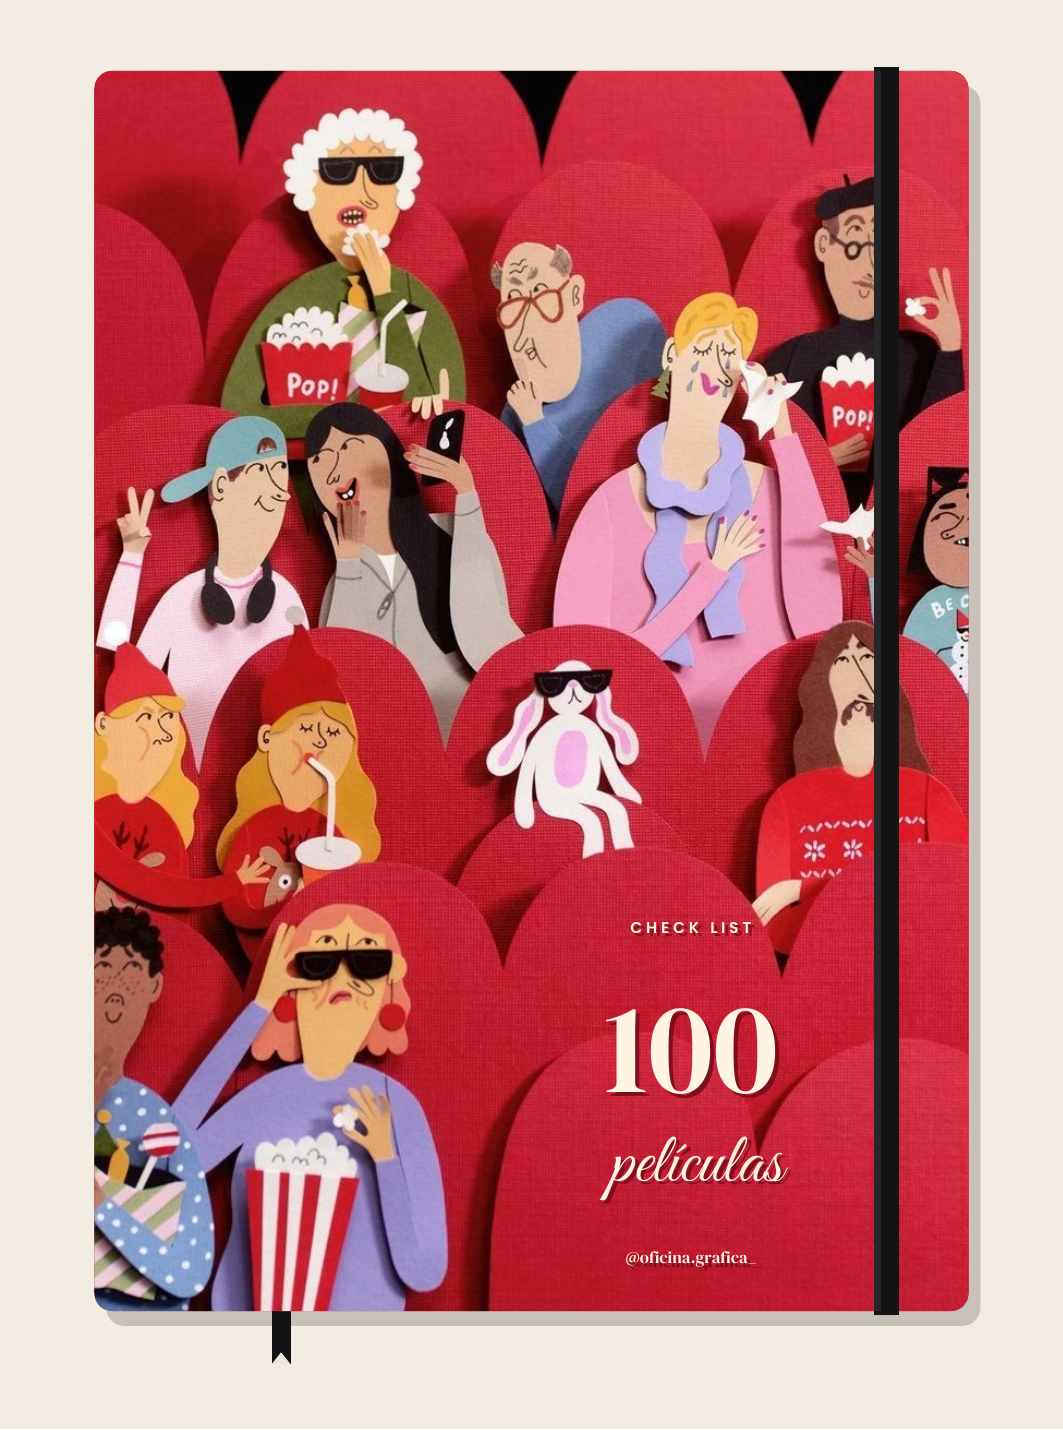
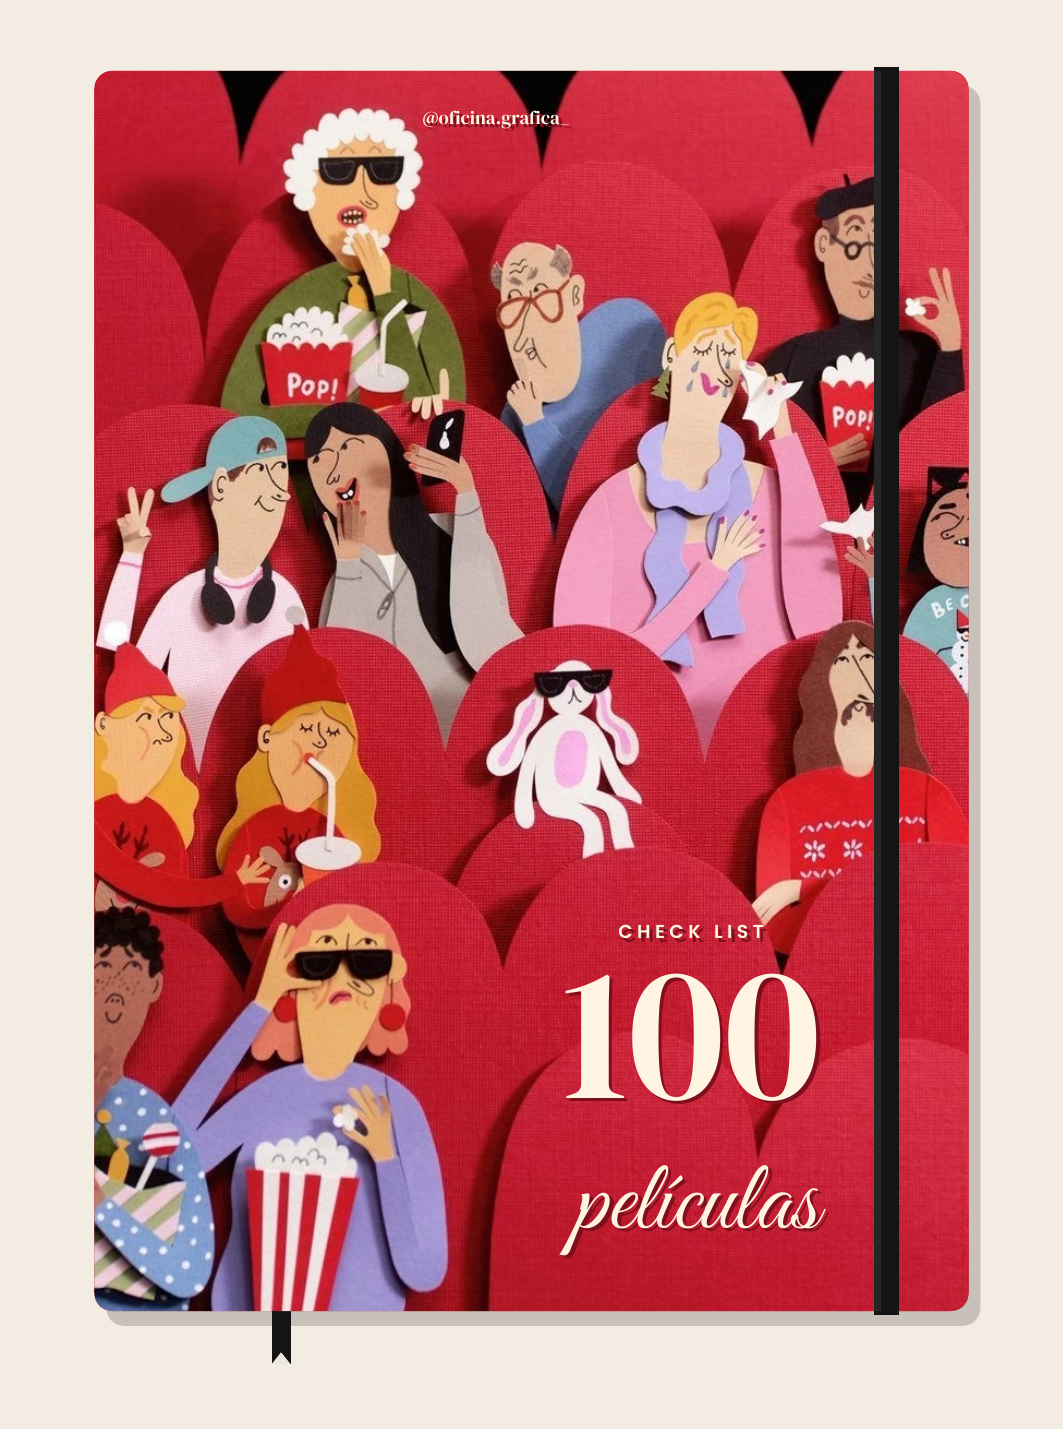
The Watch List: título más grande y firma arriba en la tapa con ilustración
Claude-Session: https://claude.ai/code/session_01FGxw9aPArw9pn3yxwBbtRR

Changed region(s): [[0.5278, 0.6462, 0.7761, 0.8923], [0.4036, 0.0615, 0.5278, 0.0923]]

diff --git a/peliculas/tapa_foto.py b/peliculas/tapa_foto.py
@@ -15,6 +15,7 @@ sys.path.insert(0, os.path.join(os.path.dirname(AQUI), "citas"))
 from portadas_personalizadas import PH, PW, Tapa, cuaderno, elastico  # noqa: E402  (registra fuentes)
 from reportlab.lib.colors import HexColor  # noqa: E402
 from reportlab.lib.units import mm  # noqa: E402
+from reportlab.pdfbase import pdfmetrics  # noqa: E402
 from reportlab.pdfgen import canvas  # noqa: E402
 
 IMAGEN = os.path.join(AQUI, "referencia-sala-papel.jpg")
@@ -41,14 +42,16 @@ def tapa(cv, x, y):
     alto = PH
     ancho = alto * IMG_W / IMG_H
     cv.drawImage(IMAGEN, x - 18 * mm, y, ancho, alto)  # recorte: 18 mm afuera a la izquierda
-    # texto en la zona de butacas vacías (abajo a la derecha), a la izquierda del elástico
-    cx = x + 101 * mm
-    cv.setFillColor(CREMA)
-    cv.setFont("PopSB", 7.5)
-    texto_con_sombra(cv, cx, y + 64 * mm, "C H E C K   L I S T", "PopSB", 7.5)
-    texto_con_sombra(cv, cx, y + 37 * mm, "100", "DMSerif", 62)
-    texto_con_sombra(cv, cx + 1 * mm, y + 22 * mm, "películas", "Script", 34)
-    texto_con_sombra(cv, cx, y + 8 * mm, INSTAGRAM, "DMSerif", 8)
+    # título en la zona de butacas vacías (abajo a la derecha), a la izquierda del elástico
+    cx, libre = x + 101 * mm, 58 * mm
+    texto_con_sombra(cv, cx, y + 63 * mm, "C H E C K   L I S T", "PopSB", 9)
+    texto_con_sombra(cv, cx, y + 36 * mm, "100", "DMSerif", 92)
+    size = 48
+    while pdfmetrics.stringWidth("películas", "Script", size) > libre:
+        size -= 1
+    texto_con_sombra(cv, cx + 1 * mm, y + 14 * mm, "películas", "Script", size)
+    # firma arriba, centrada en el área libre del elástico
+    texto_con_sombra(cv, x + 68 * mm, y + PH - 9 * mm, INSTAGRAM, "DMSerif", 9)
     cv.restoreState()
     elastico(cv, x, y, ROJO)
 
